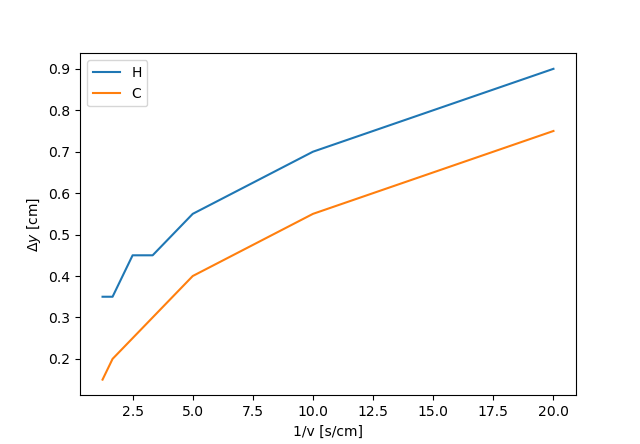
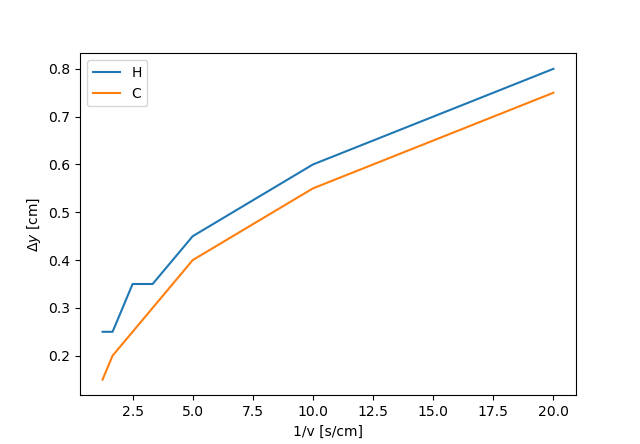
Changed hot location determination

diff --git a/plot.py b/plot.py
@@ -2,7 +2,7 @@ import numpy as np
 import matplotlib.pyplot as plt
 v = np.array([5e-2, 1e-1, 2e-1, 3e-1, 4e-1, 6e-1, 8e-1])
 c = np.array([0.75, 0.55, 0.4,  0.3,  0.25, 0.2,  0.15])
-h = np.array([2.1,  2.3,  2.45, 2.55, 2.55, 2.65, 2.65])
+h = np.array([2.2,  2.4,  2.55, 2.65, 2.65, 2.75, 2.75])
 
 vinv = 1/v
 

diff --git a/heat.py b/heat.py
@@ -79,7 +79,7 @@ for i in range(ny):
         print("18 degrees at " + str((i-1) * dy) + " cm")
         first = False
     if not first and T[i_sens,i] > 22:
-        print("22 degrees at " + str((i-1) * dy) + " cm")
+        print("22 degrees at " + str((i) * dy) + " cm")
         break
     
 # plot result
